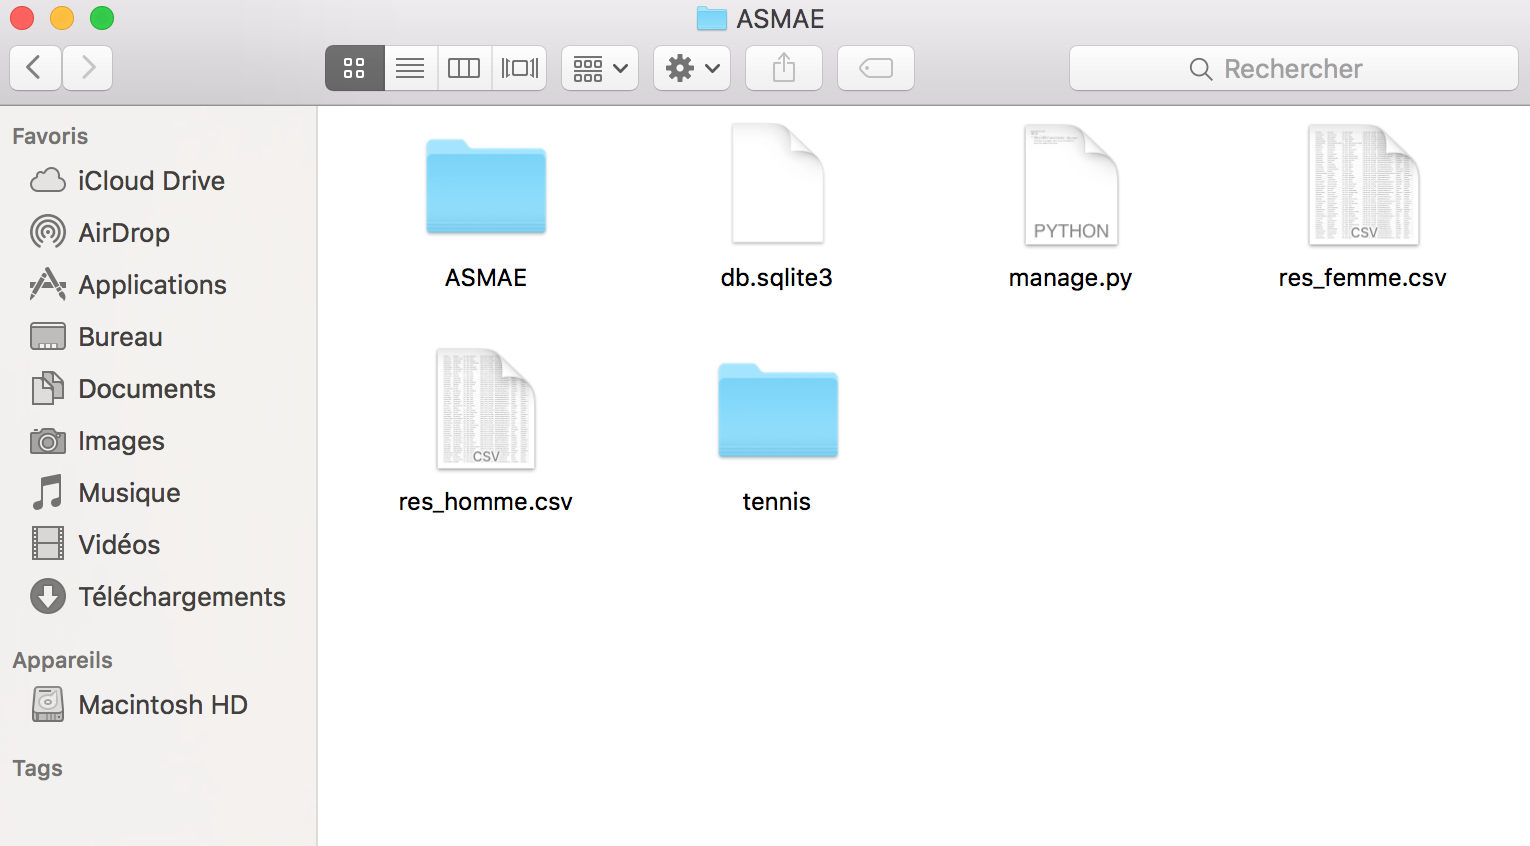
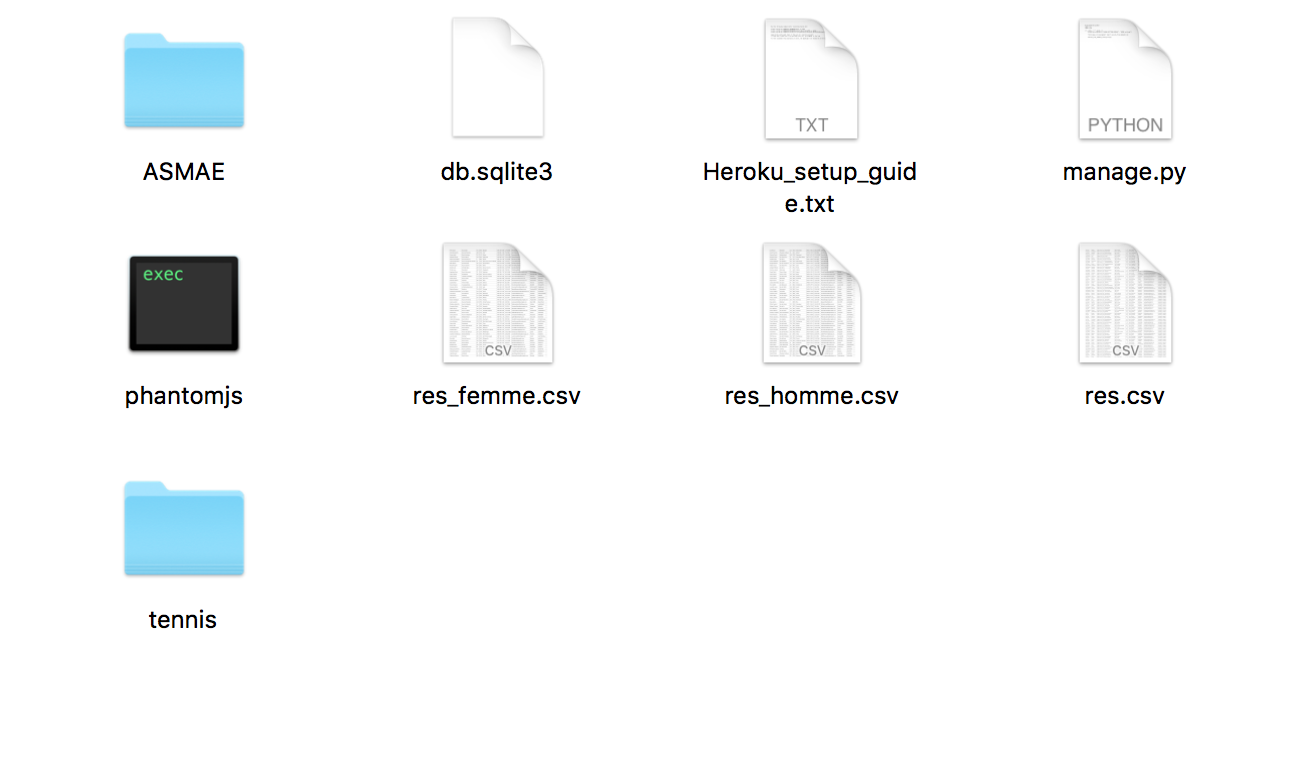
debut modif table.tex

diff --git a/Documentation/developer_guide/table.tex b/Documentation/developer_guide/table.tex
@@ -1,10 +1,26 @@
-Pour ajouter une table dans la base de données, il est nécessaire de modifier le fichier models.py, contenant l'ensemble des tables. Pour ce faire, il suffit d'ouvrir le fichier à l'aide de n'importe quel IDE ou éditeur de code, et de créer une nouvelle classe à la fin de celui-ci en respectant l'indentation et syntaxe python class ClassName (models.Model) : . Il faut ensuite définir l'ensemble des variables de classe (représentant les différentes informations à stocker dans la base de données), en spécifiant leurs types et les éventuelles relations.
+Afin d'ajouter une nouvelle table dans la base de données, il est nécessaire de modifier le fichier models.py présent dans le dossier tennis (Figure~\ref{}). Pour ce faire, il suffit d'ouvrir le fichier à l'aide d'un éditeur de code (Notepad, Pycharm, etc.), et de rajouter une nouvelle classe à la fin de celui-ci en respectant l'indentation et la syntaxe python appropriée. La structure d'une classe est définie sur la figure~\ref{fig:Structure d'une classe représentant une table de la base de données}
 
-\begin{figure}[H]
+\begin{figure}[!ht]
 \centering
-\includegraphics[scale=0.4]{Classe.png}
-\caption{Représentation d'une table de la base de données}
+\begin{framed}
+\lstinputlisting[language=Python, firstline=1, lastline=8]{"developer_guide/class.py"}
+\end{framed}
+\caption{Structure d'une classe représentant une table de la base de données}
+\label{fig:Structure d'une classe représentant une table de la base de données}
 \end{figure}
+\FloatBarrier
+
+Cette structure se complète ensuite en définissant l'ensemble des variables de classe (représentant les différentes informations à stocker dans la base de données) en spécifiant leurs types et leurs éventuelles relations et en y complétant les méthodes \textit{str} et \textit{unicode}. On peut observer un exemple d'une telle classe sur la figure~\ref{fig:Classe issue du fichier models.py représentant une table de la base de données}
+
+\begin{figure}[!ht]
+\centering
+\begin{framed}
+\lstinputlisting[language=Python, firstline=9, lastline=24]{"developer_guide/class.py"}
+\end{framed}
+\caption{Classe issue du fichier \textit{models.py} représentant une table de la base de données}
+\label{fig:Classe issue du fichier models.py représentant une table de la base de données}
+\end{figure}
+\FloatBarrier
 
 Les types principaux sont les suivants :\\
 

diff --git a/Documentation/developer_guide/class.py b/Documentation/developer_guide/class.py
@@ -1,0 +1,27 @@
+class ClassName (models.Model) :
+    #Variables
+    
+    #Methodes
+    def __str__(self):
+
+    def __unicode__(self):
+
+class infoTournoi(models.Model):
+    prix = models.DecimalField(max_digits=11, decimal_places=2, 
+        verbose_name="Prix de l'inscription")
+    date = models.DateTimeField(verbose_name="Date du tournoi")
+    edition = models.IntegerField(primary_key=True)
+    addr = models.TextField(verbose_name="Adresse du QG")
+    latitude = models.DecimalField(
+        max_digits=19, decimal_places=10, default="50.8539751", 
+        blank=True, verbose_name="Latitude")
+    longitude = models.DecimalField(
+        max_digits=19, decimal_places=10, default="4.398054", 
+        blank=True, verbose_name="Longitude")
+    resultats = models.ManyToManyField(Resultat)
+
+    def __str__(self):
+        return "Edition " + str(self.edition)
+
+    def __unicode__(self):
+        return u'' + "Edition " + repr(self.edition)

diff --git a/Documentation/developer_guide/installation.tex b/Documentation/developer_guide/installation.tex
@@ -42,14 +42,14 @@ figure~\ref{fig:Dossier ASMAE}) en entrant la commande suivante: \newline
 \verb#python manage.py runserver#
 \bigskip
 
-La console devrait vous afficher le même message celui sur la
+La console devrait vous afficher le même message que celui sur la
 figure~\ref{fig:Message de la console lors du démarrage du serveur}
 
 \begin{figure}[!ht]
     \centering
-    \includegraphics[width=0.5\linewidth]{developer_guide/repertory.png}
-    \caption{Dossier ASMAE}
-    \label{fig:Dossier ASMAE}
+    \includegraphics[width=0.7\linewidth]{developer_guide/repertory.png}
+    \caption{Répertoire racine du projet}
+    \label{fig:Répertoire racine du projet}
 \end{figure}
 \FloatBarrier
 
